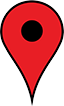
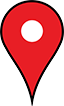
Added new pins for mobile

diff --git a/styles/css/one-column.css b/styles/css/one-column.css
@@ -479,6 +479,7 @@ a.top-link {
 	text-decoration: underline;
 }
 
+
 /*Media Queries*/
 
 @media (max-width: 1440px) {
@@ -524,11 +525,20 @@ a.top-link {
 	}
 
 	.meet-doctors-mobile h1 {
-		font-size: 5em;
+		font-size: 6em;
 		position: relative;
-		top:150px;
+		top:140px;
+		line-height: .90em;
 		text-transform: none;
 		color: #ffffff;
+		font-family: LightCampaignFont,Helvetica,Arial,sans-serif;
+	}
+
+	p.tap-text {
+	color: #ffffff;
+	font-size: 2em;
+	position: relative;
+	top: 140px;
 	}
 
 	.meet-doctors, .meet-doctors-mobile {
@@ -589,6 +599,24 @@ a.top-link {
 	}
 	.row-4 h3{
 		font-size: 3em;
+	}
+
+	.loc-pin{
+	background-image: url('../../files/images/pin_sm_mobile.png');
+	width: 30px;
+	height: 50px;
+	}
+
+	.loc-pin.active{
+	  background-image: url('../../files/images/pin_lg_mobile.png');
+	  width: 40px;
+	  height: 66px;
+	}
+
+	a.loc-pin:hover, a.loc-pin:focus, a.loc-pin:active{
+	background-image: url('../../files/images/pin_lg_mobile.png');
+	width: 40px;
+	height: 66px;
 	}
 
 }
@@ -653,9 +681,17 @@ a.top-link {
 	.meet-doctors-mobile h1 {
 		font-size: 3em;
 		position: relative;
-		top:70px;
+		top:60px;
 		text-transform: none;
 		color: #ffffff;
+	  	font-family: LightCampaignFont,Helvetica,Arial,sans-serif;
+	}
+
+	p.tap-text {
+	color: #ffffff;
+	font-size: 1.5em;
+	position: relative;
+	top: 60px;
 	}
 
 
